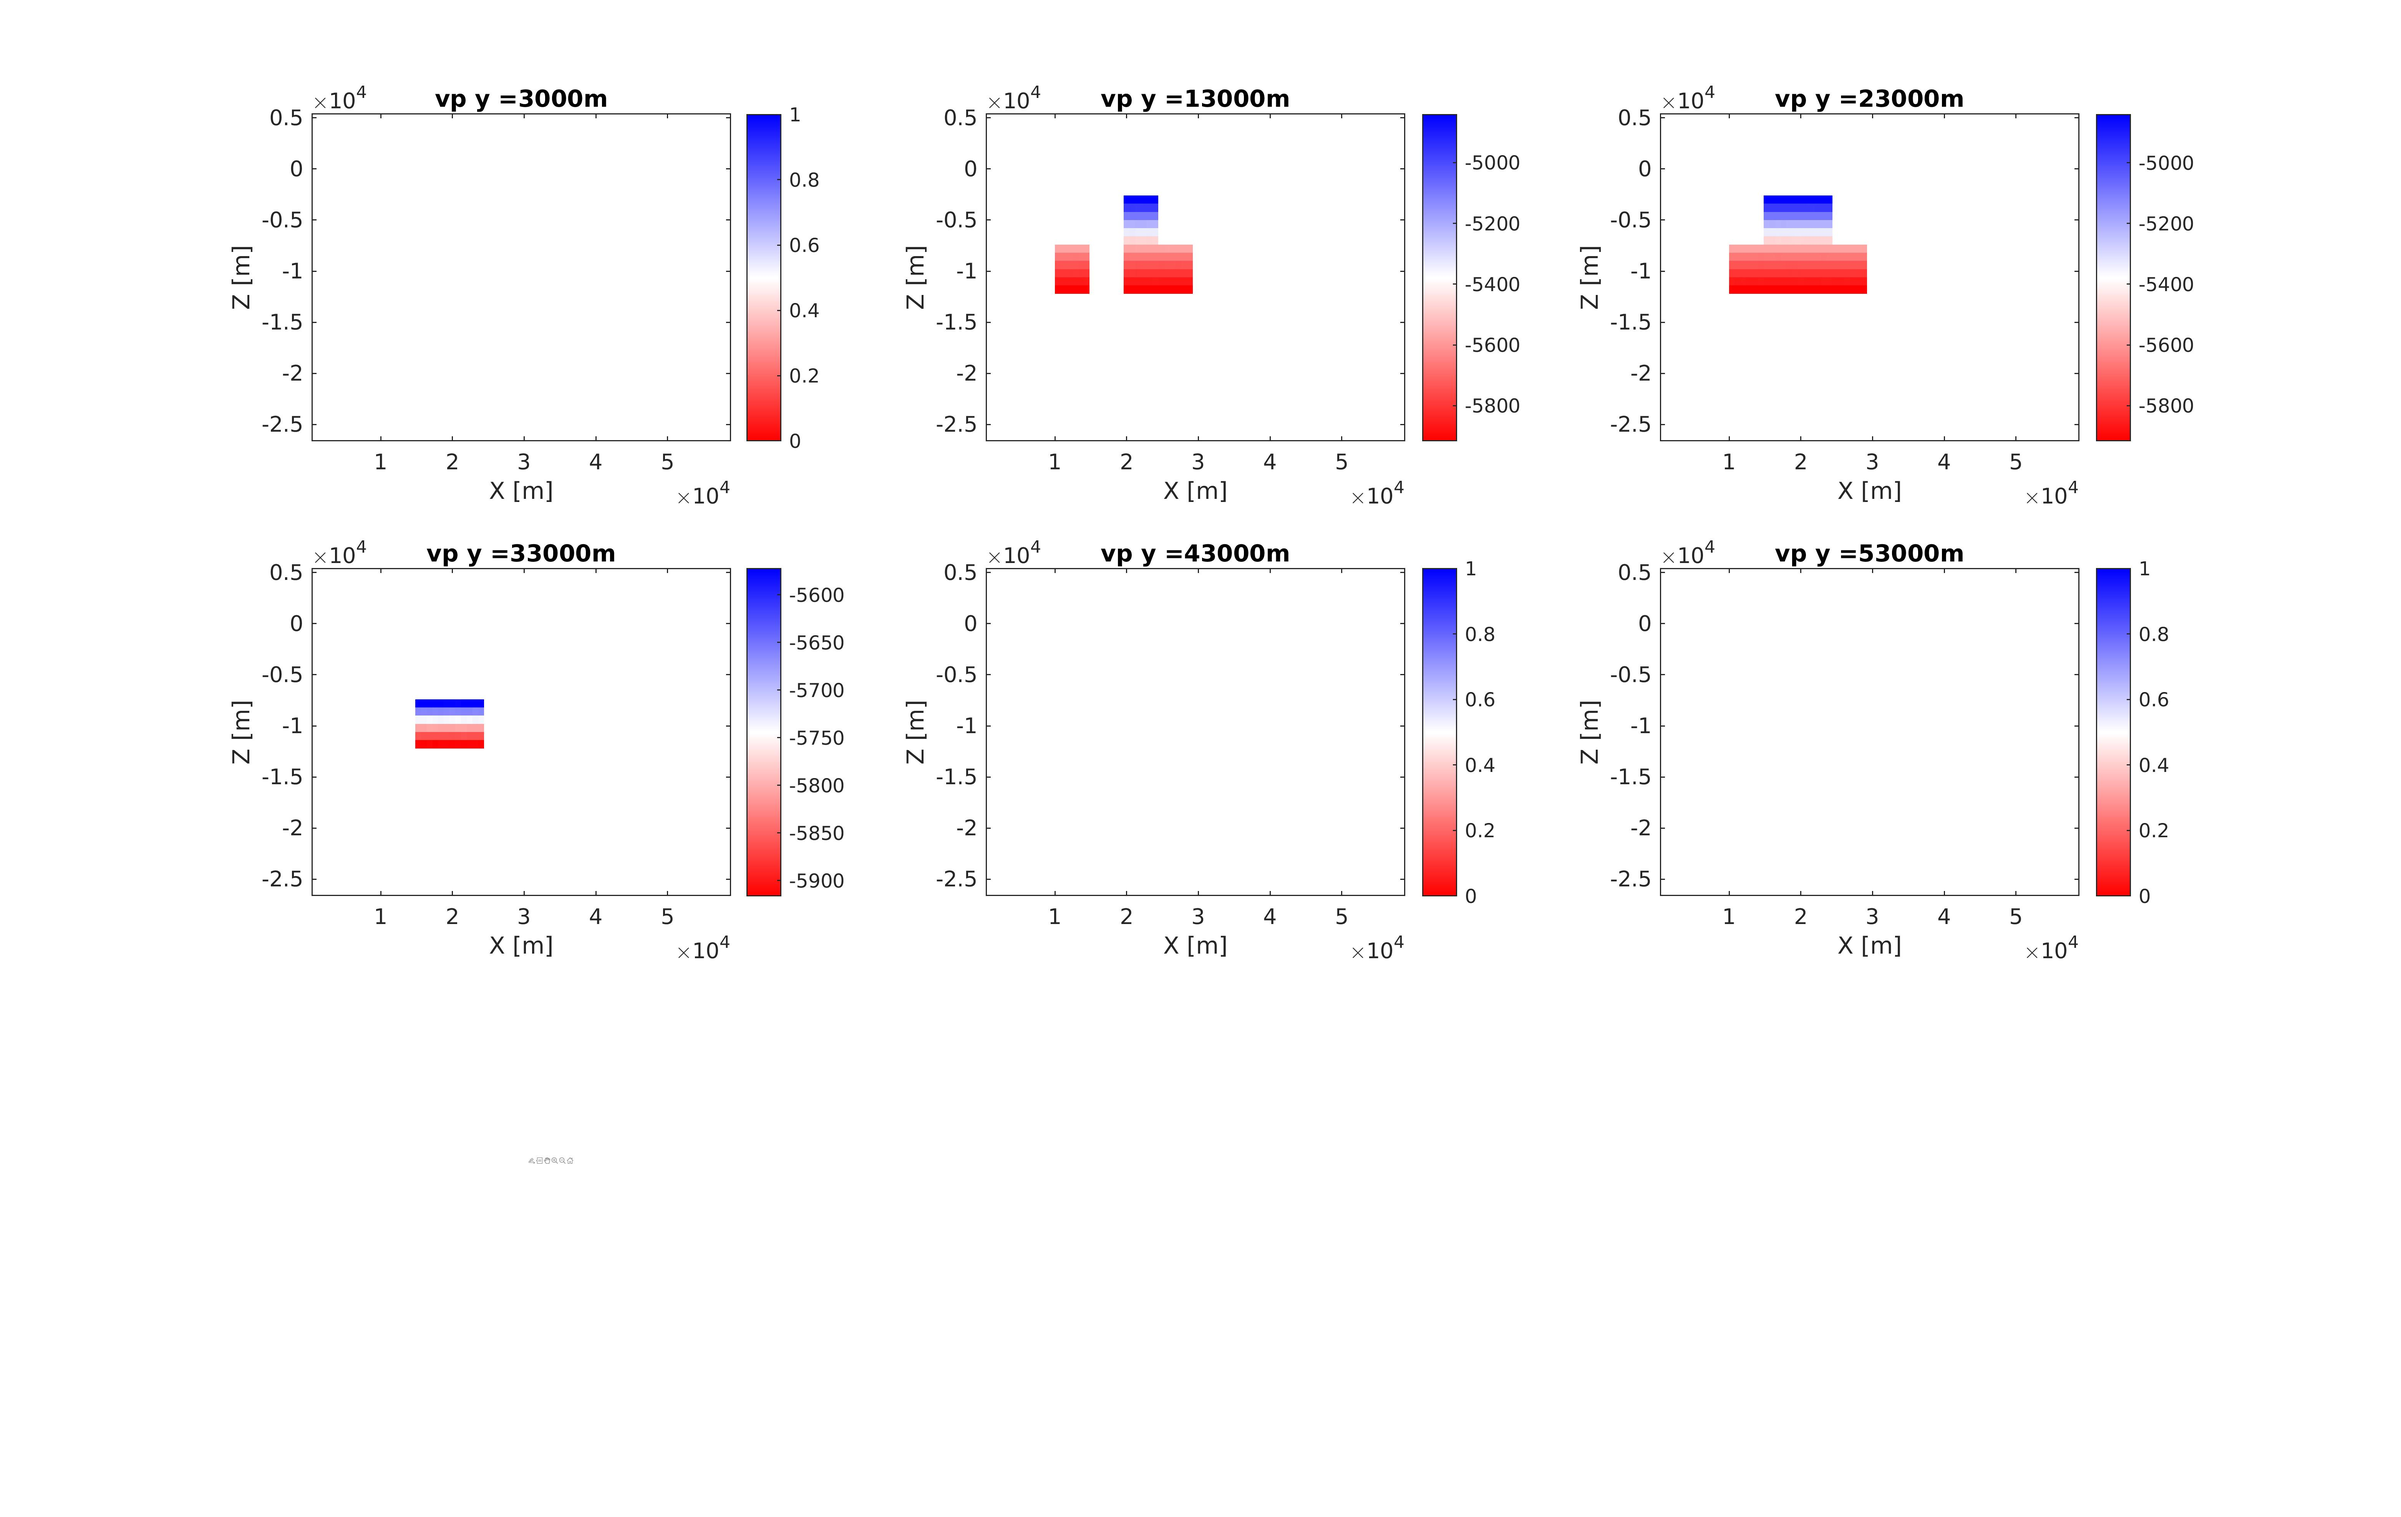
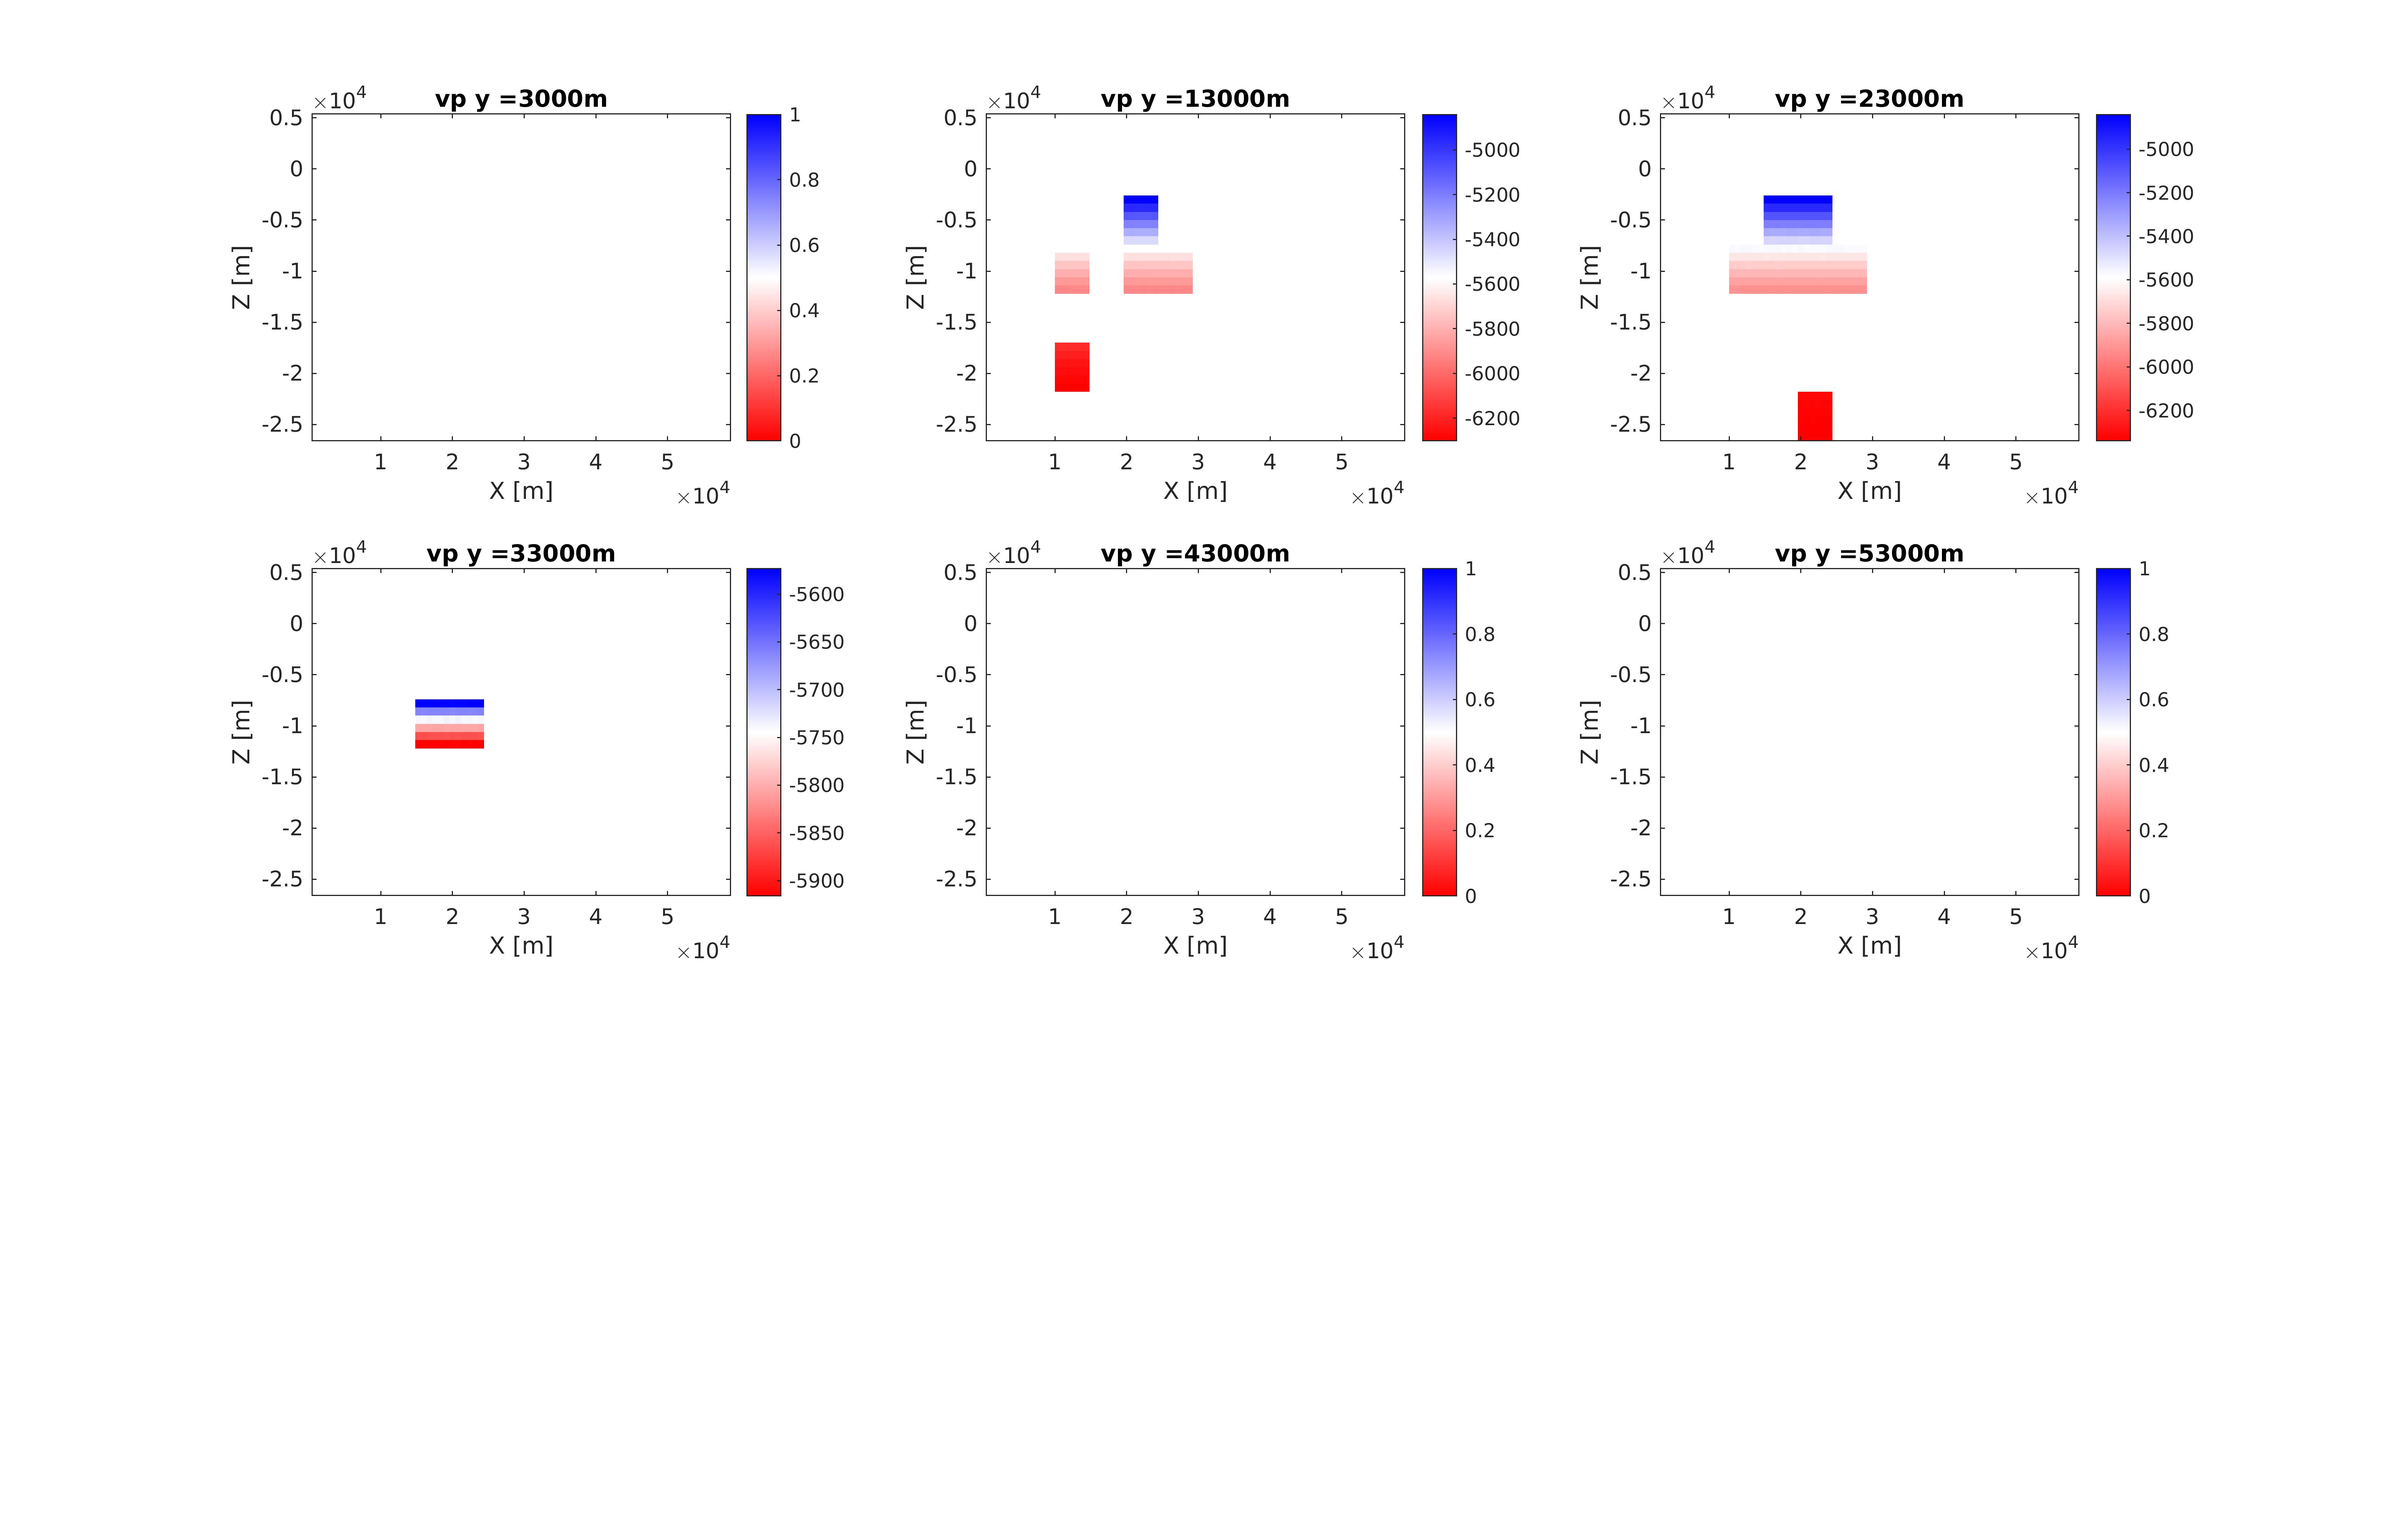
9

Changed region(s): [[0.4368, 0.1246, 0.4992, 0.2803], [0.7176, 0.1246, 0.78, 0.218], [0.7488, 0.2491, 0.78, 0.3114]]

diff --git a/example/tutorial_alternating_inversion_Crati/create_figure4.m b/example/tutorial_alternating_inversion_Crati/create_figure4.m
@@ -34,8 +34,10 @@ receiver=load('./receiver_overview.csv');
 tt=load('../tutorial_alternating_checkerboard_Crati/c_vp.mat');
 checkerboard_P=tt.data.vp;
 %% please remove this section if you already have an inverted vp and vs
+%{
 vp=randn(nx,ny,nz);
 vs=randn(nx,ny,nz);
+%}
 %% slection with checkerboard P
 n=round(edge_length/h);
 s=zeros(length(1:floor(nx/n)+1) ...
@@ -66,13 +68,13 @@ s(5,7,2)=1;
 s(6,3:6,2)=1;
 
 s(3,4,3)=1;
-s(10,10,4)=1;
-s(30,30,5)=1;
-s(30,30,6)=1;
+s(3,3,4)=1;
+s(5,5,5)=1;
+s(6,6,6)=1;
 
 
 % Change k from 1 to max and assign s
-k=2;
+k=6;
 
 tt=k*n-floor(n/2);
 
@@ -156,6 +158,7 @@ subplot(2,2,3)
 imagesc([min(X(:)),max(X(:))],[min(Y(:)),max(Y(:))],s2(:,:,k)')
 set(gca,'YDir','normal');
 %% evaluate inversion
+%{
 s(:,:,end-1:-1:1)=s(:,:,1:end-1);
 s2(:,:,end-1:-1:1)=s2(:,:,1:end-1);
 tt2=vp;
@@ -194,6 +197,7 @@ for i=1:floor(nx/n)+1
     end
 end
 vs=tt2;
+%}
 %% evaluate inversion
 tt=ones(size(vp));
 tt(isnan(vp))=nan;
@@ -239,9 +243,7 @@ for i=1:length(z)
     subplot(a,a,i)
     imAlpha=ones(size(vp(:,:,tt)'));
     imAlpha(isnan(vp(:,:,tt)'))=0;
-    imagesc([min(X(:)),max(X(:))], ...
-        [min(Y(:)),max(Y(:))], ...
-        vp(:,:,tt)'-vp0(:,:,tt)','AlphaData',imAlpha);
+    imagesc(vp(:,:,tt)'-vp0(:,:,tt)','AlphaData',imAlpha);
     set(gca,'color',1*[1 1 1]);
     set(gca,'ydir','normal');
     title({['vp z =' num2str(z(i)) 'm']});
